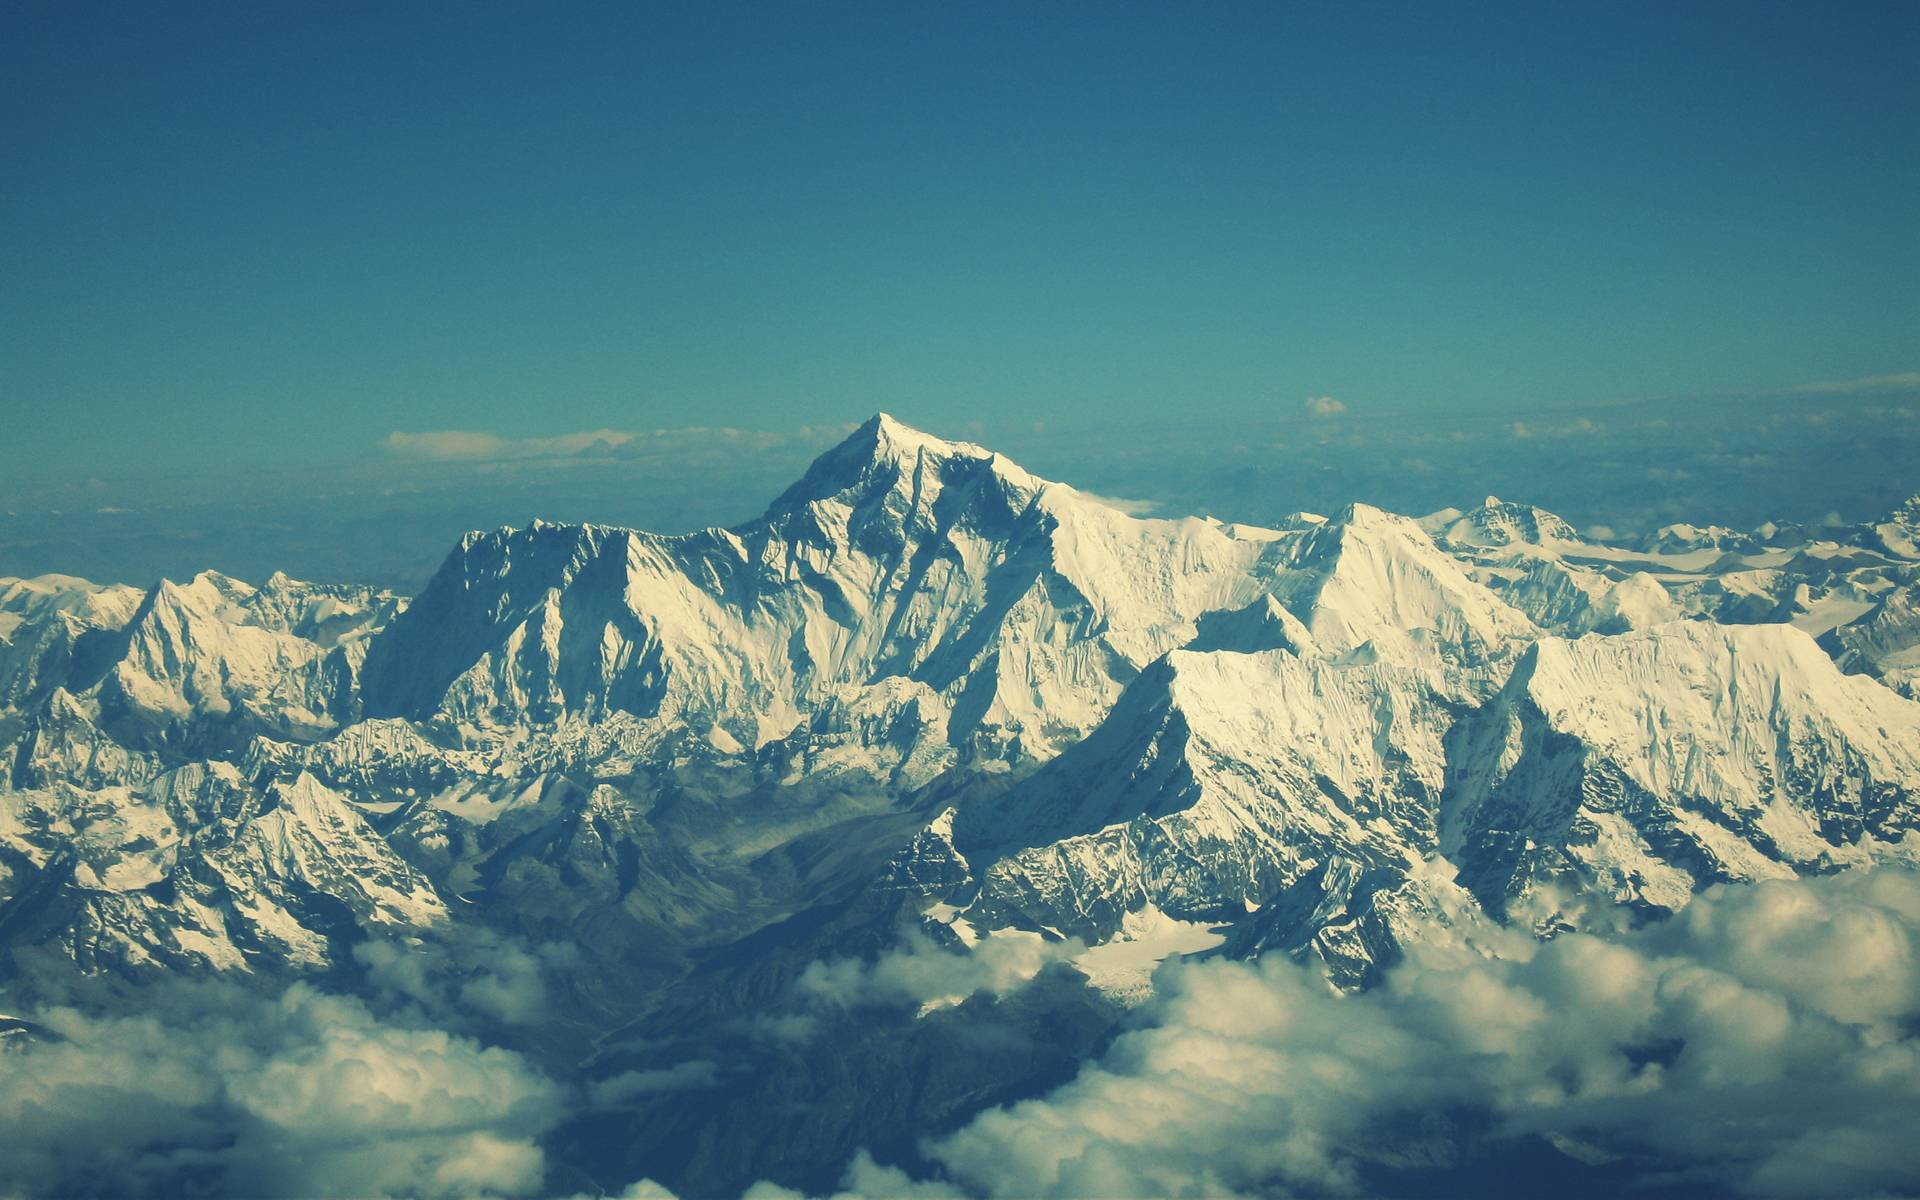
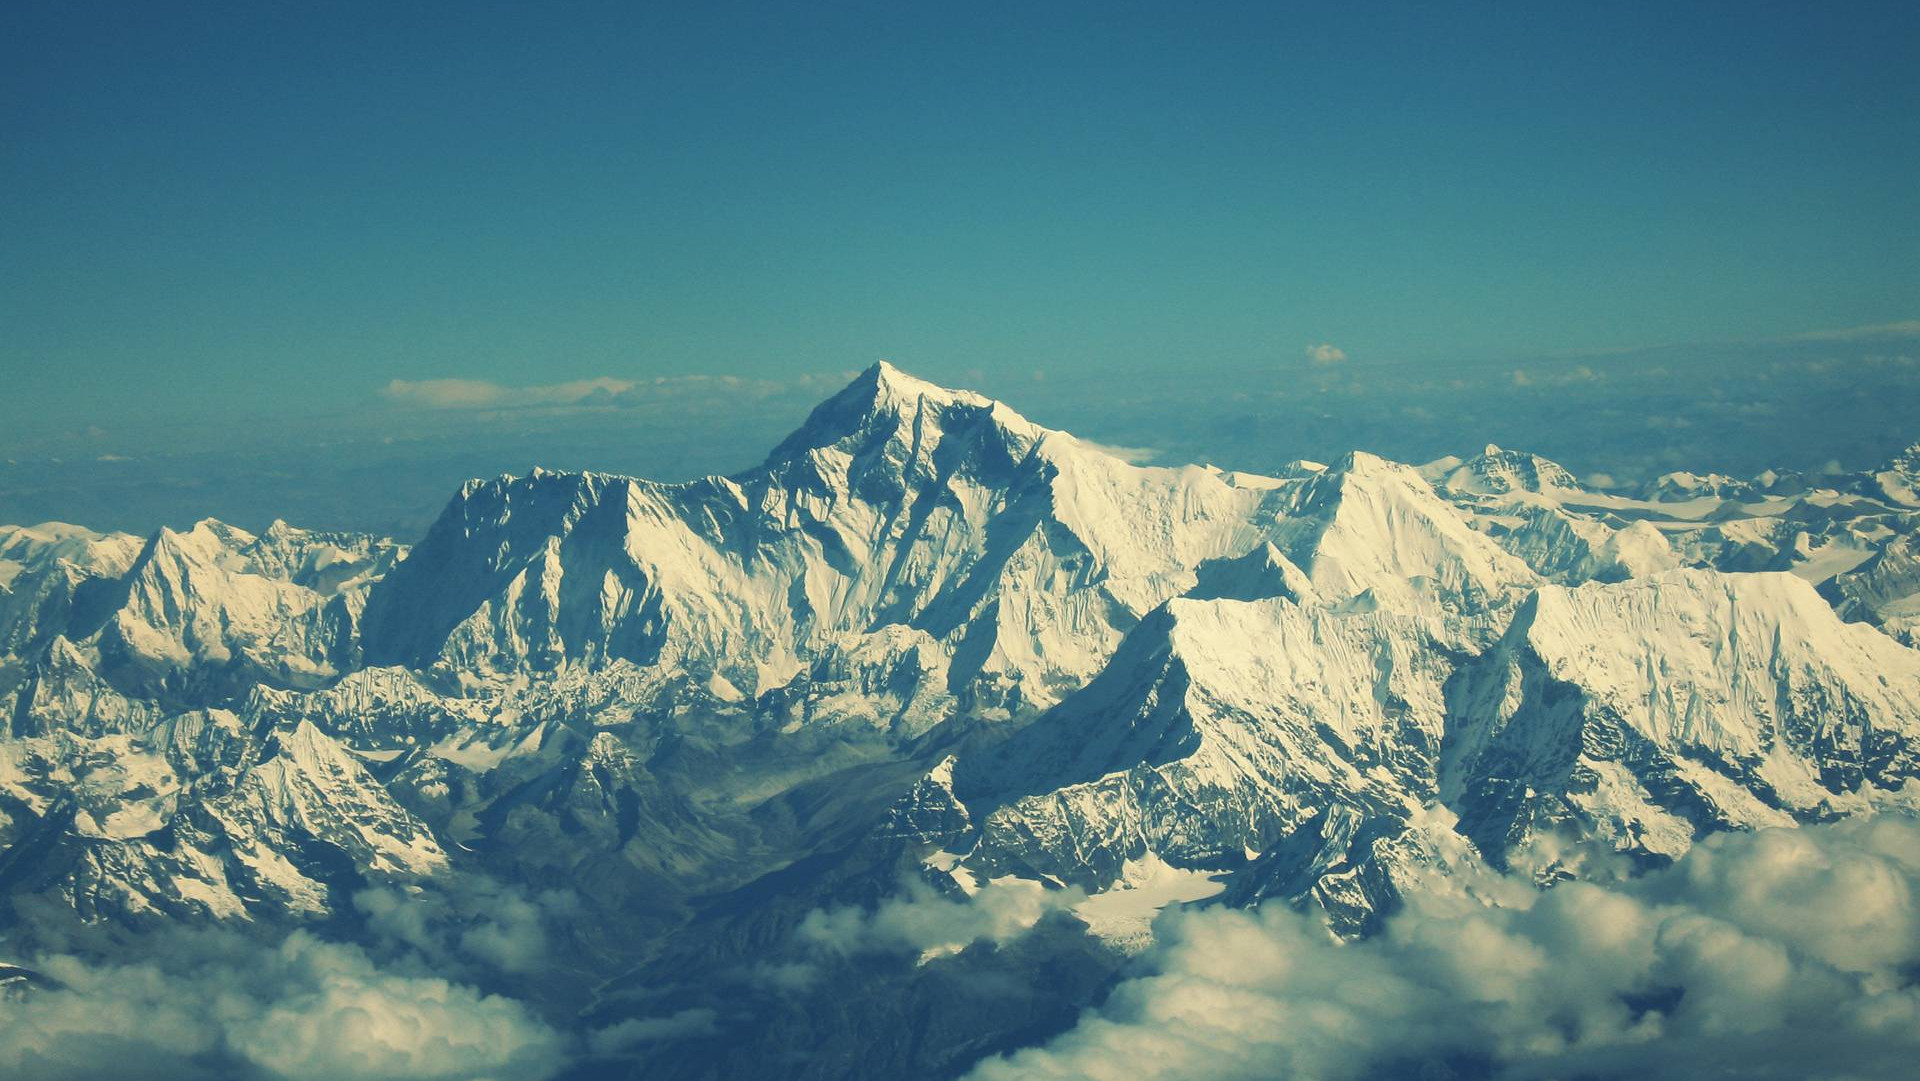
random stuff idk

diff --git a/css/index.css b/css/index.css
@@ -1,0 +1,23 @@
+body {
+    margin: 0
+}
+.bg {
+  background: url(http://localhost:8000/Desktop/interactiveresume/images/4242031-mountains-wallpaper.jpg) no-repeat;
+  height: 100%;
+  overflow-y: scroll;
+}
+.in {
+  margin: 0;
+  height: 2000px;
+}
+.header-bar {
+  width: 100%;
+  height: 80px;
+  background-color: rgba(0,0,0,0.85);
+  margin-bottom: 600px;
+}
+.section {
+  width: 100%;
+  height: 500px;
+  background-color: rgba(0,0,0,0.85);
+}

diff --git a/index.html b/index.html
@@ -1,9 +1,19 @@
 <html>
   <head>
     <title>Kevin Hubbard - Resume</title>
+    <link href="css/index.css" rel="stylesheet" type="text/css" />
   </head>
   <body>
+    <div class="bg">
+      <div class="in">
+        <div class="header-bar">
 
+        </div>
+        <div class="section">
+
+        </div>
+      </div>
+    </div>
   </body>
 
 </html>
